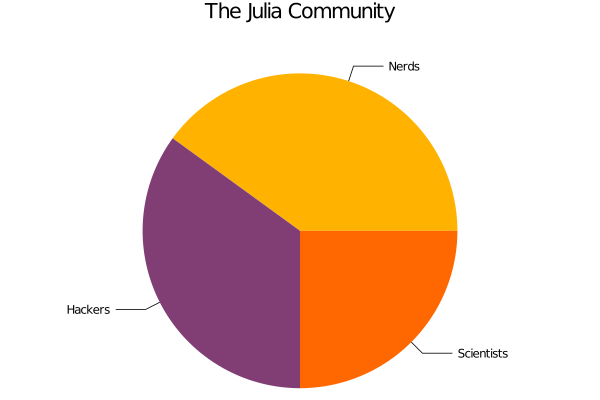
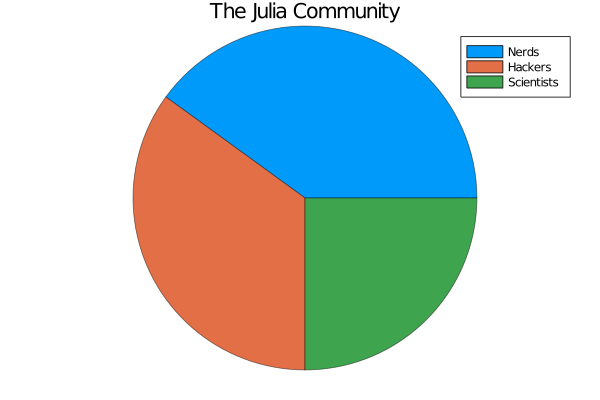
fix pie

diff --git a/src/pie.md b/src/pie.md
@@ -3,10 +3,10 @@
 ![pie.png](images/pie.png)
 
 ```julia
-# ref http://docs.juliaplots.org/latest/examples/pyplot/
+# ref https://docs.juliaplots.org/latest/generated/pyplot/
 x = ["Nerds","Hackers","Scientists"]
 y = [0.4,0.35,0.25]
-pie(x,y,title="The Julia Community",l=21)
+pie(x, y, title="The Julia Community",l = 0.5)
 ```
 
 ---
